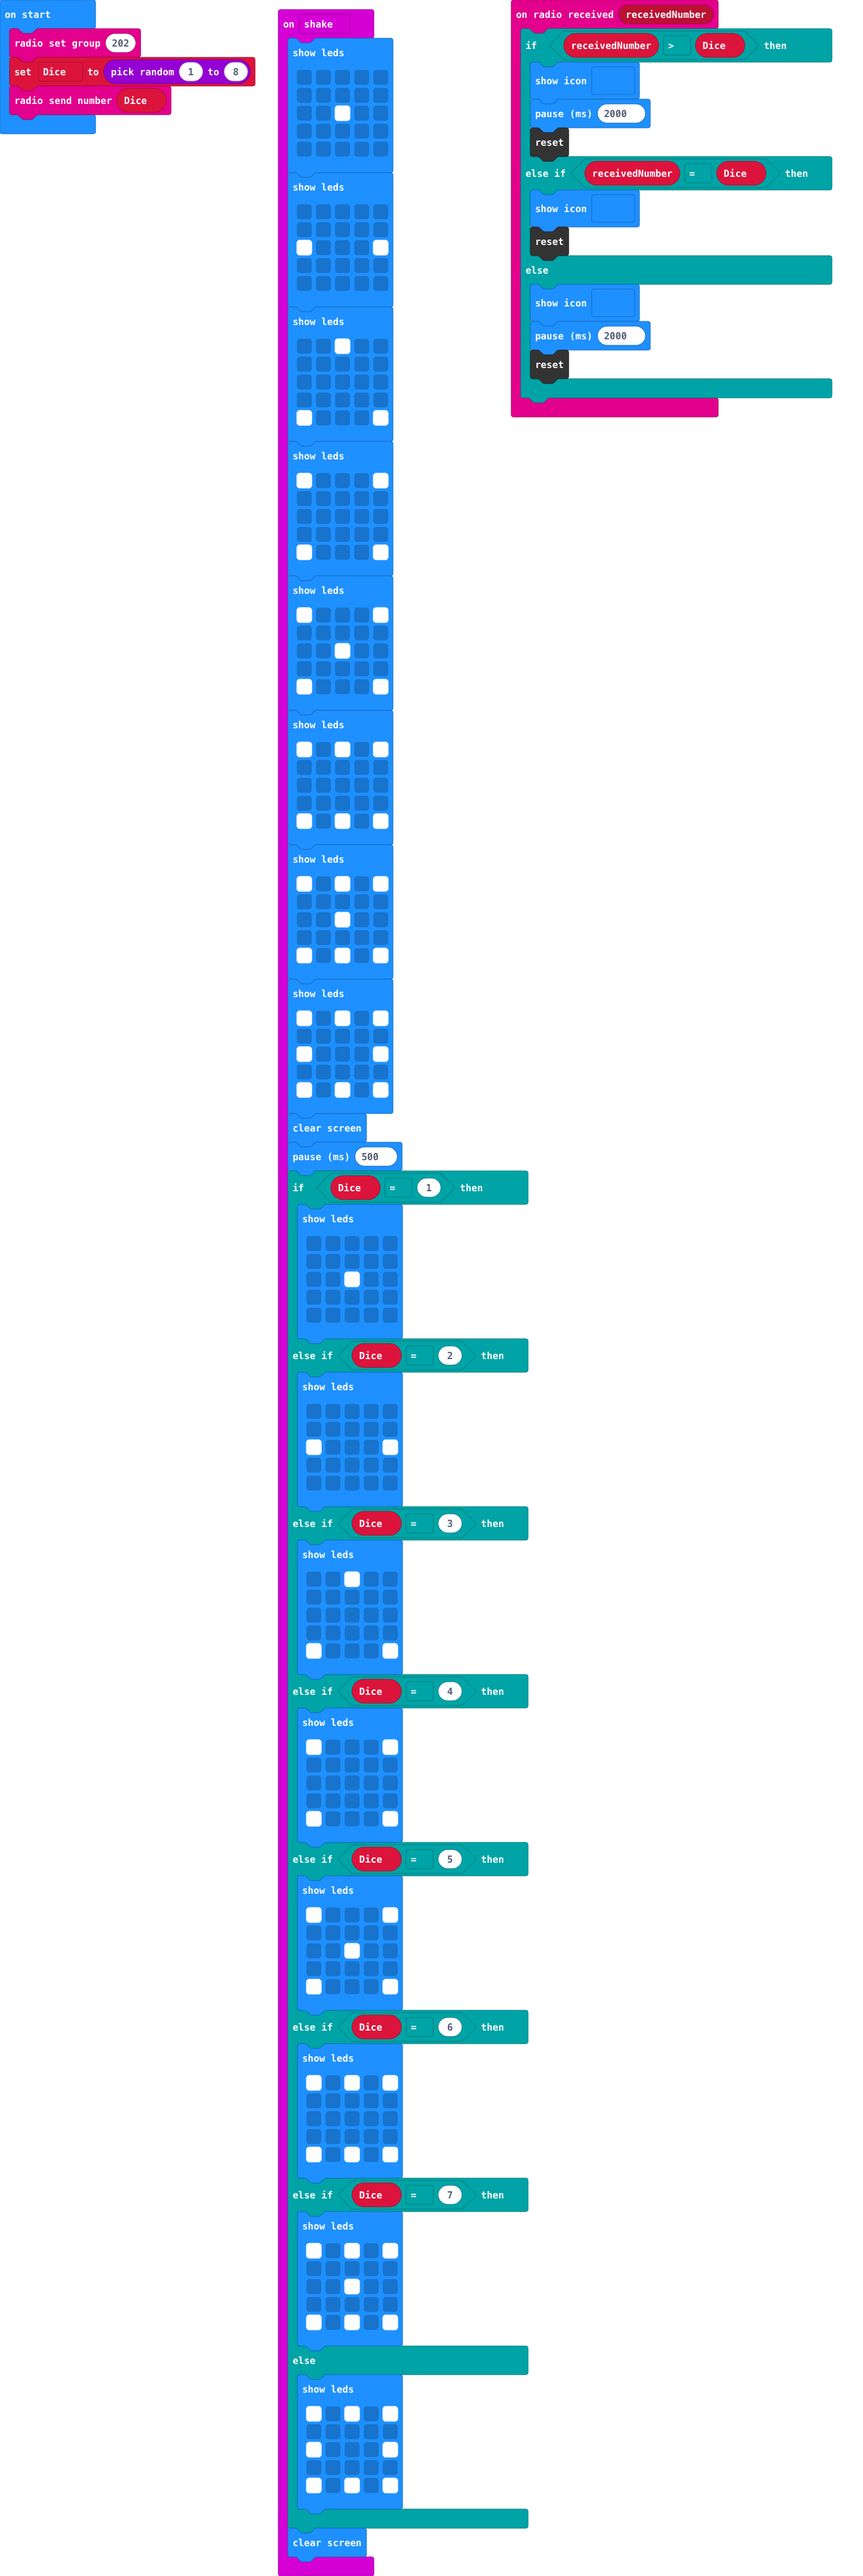
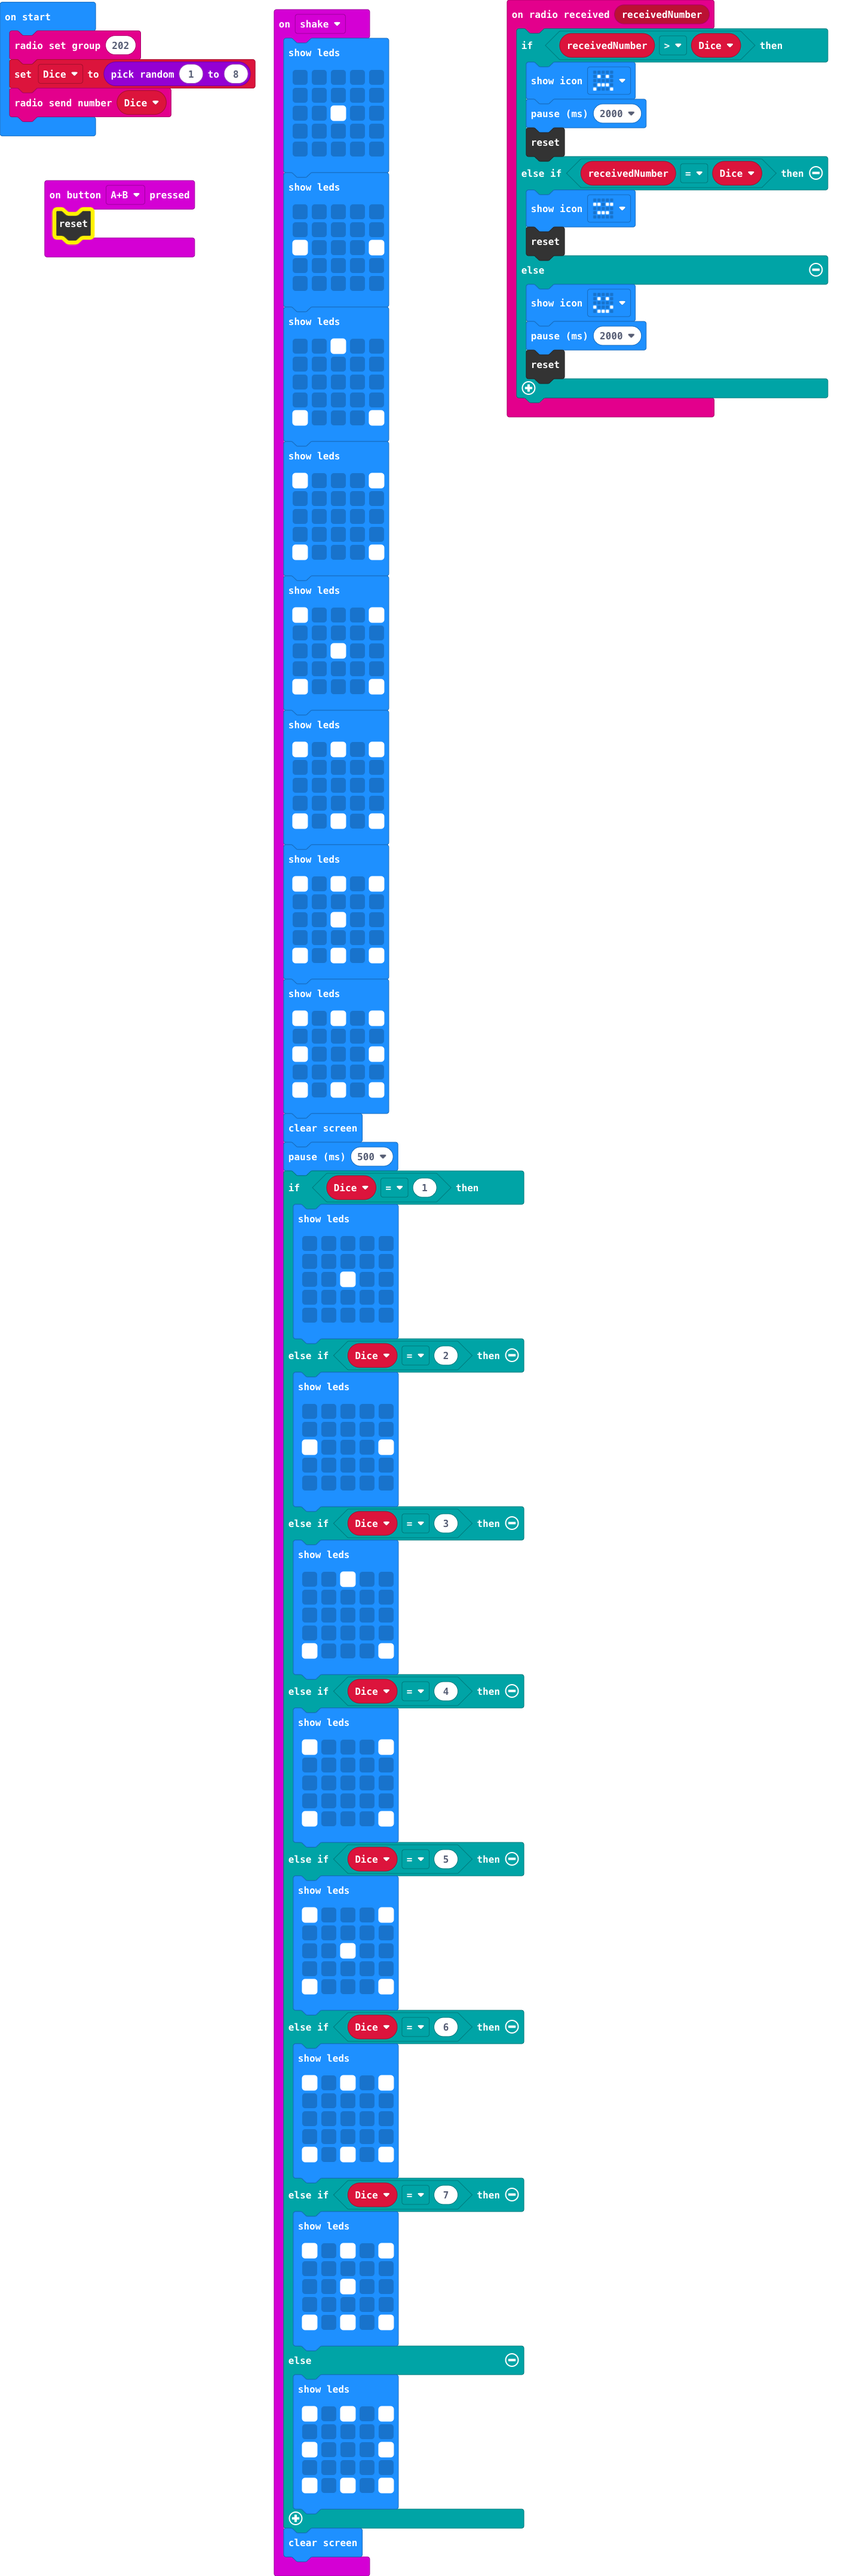
Update main.blocks, main.ts

diff --git a/main.ts b/main.ts
@@ -12,6 +12,9 @@ radio.onReceivedNumber(function (receivedNumber) {
         control.reset()
     }
 })
+input.onButtonPressed(Button.AB, function () {
+    control.reset()
+})
 input.onGesture(Gesture.Shake, function () {
     basic.showLeds(`
         . . . . .
